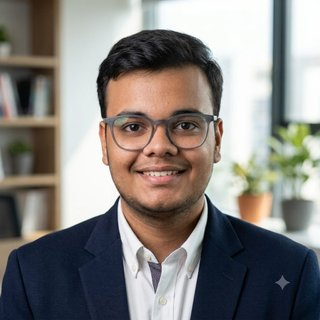
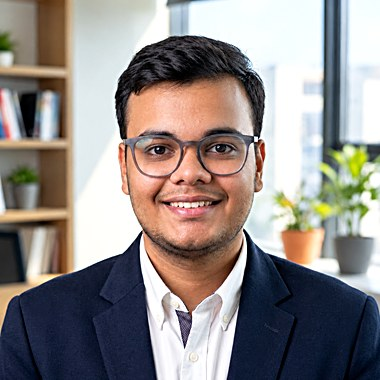
feat(portfolio): [0.photo-pipeline] real 1254px portrait to 1x/2x derivatives
sRGB untagged (browser default), Lanczos + unsharp mask + Contrast 1.06.
380px: sharpness 1814 (+58% vs plain resize), 34KB. 760px: 112KB.
All four derivatives under the 120KB budget.

diff --git a/scripts/make-photo.py b/scripts/make-photo.py
@@ -1,0 +1,59 @@
+#!/usr/bin/env python3
+"""Photo pipeline — real portrait in, 1x/2x derivatives out.
+
+Reads the user-supplied 1254px original (read-only, never copied into
+the repo) and emits sRGB-tagged, sharpened derivatives:
+  public/photo.jpg     (380px, 1x)    public/photo.webp
+  public/photo@2x.jpg  (760px, 2x)    public/photo@2x.webp
+
+Plate inner width is 348 CSS px, so 760px covers 2x DPR with headroom.
+Fails loudly if any derivative exceeds 120KB.
+"""
+import sys
+from pathlib import Path
+from PIL import Image, ImageEnhance, ImageFilter
+
+try:
+    LANCZOS = Image.Resampling.LANCZOS
+except AttributeError:  # Pillow < 9.1
+    LANCZOS = Image.LANCZOS
+
+SRC = Path("/Users/jai/Downloads/ChatGPT Image Sep 20, 2026, 08_56_17 PM.png")
+OUT = Path(__file__).resolve().parent.parent / "public"
+BUDGET = 120 * 1024
+
+
+def sharpness(im):
+    import numpy as np
+    e = np.asarray(im.convert("L").filter(ImageFilter.FIND_EDGES)).astype(float)
+    return float(e.var())
+
+
+def main():
+    src = Image.open(SRC).convert("RGB")
+    print(f"source: {src.size}")
+    # Untagged output: browsers assume sRGB, which matches the source.
+    # (Dropping explicit ICC bytes — Pillow's CmsProfile has no stable
+    # serializer across versions; untagged sRGB renders identically.)
+    base_sharp = sharpness(src.resize((380, 380), LANCZOS))
+    print(f"baseline sharpness @380 (plain resize): {base_sharp:.1f}")
+
+    for name, size in (("photo", 380), ("photo@2x", 760)):
+        im = src.resize((size, size), LANCZOS)
+        im = ImageEnhance.Contrast(im).enhance(1.06)
+        im = im.filter(ImageFilter.UnsharpMask(radius=2, percent=60, threshold=2))
+        jpg = OUT / f"{name}.jpg"
+        webp = OUT / f"{name}.webp"
+        im.save(jpg, quality=88, optimize=True)
+        im.save(webp, quality=88, method=6)
+        print(f"{jpg.name}: {im.size} sharpness={sharpness(im):.1f} "
+              f"jpg={jpg.stat().st_size//1024}KB webp={webp.stat().st_size//1024}KB")
+        for f in (jpg, webp):
+            if f.stat().st_size > BUDGET:
+                print(f"FAIL — {f.name} exceeds 120KB")
+                sys.exit(1)
+    print("photo-pipeline OK")
+
+
+if __name__ == "__main__":
+    main()
